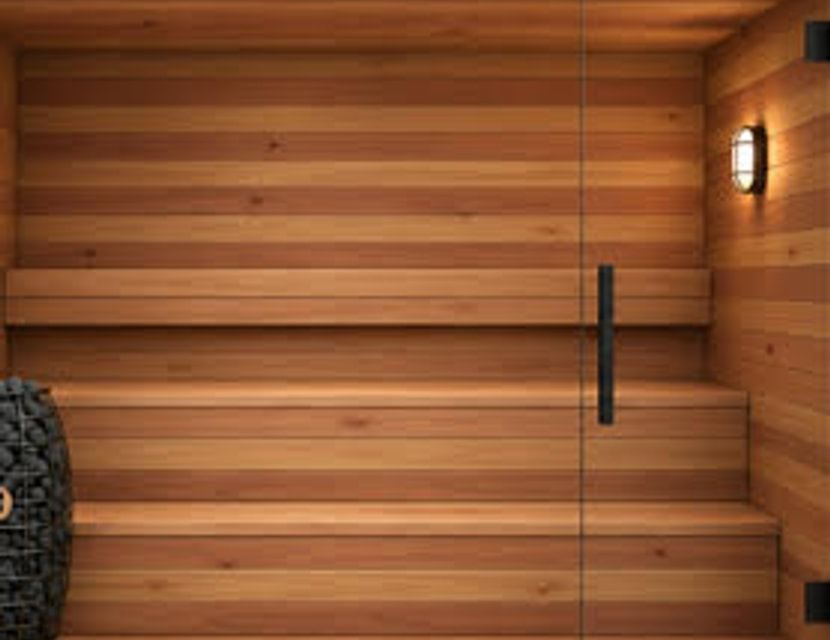
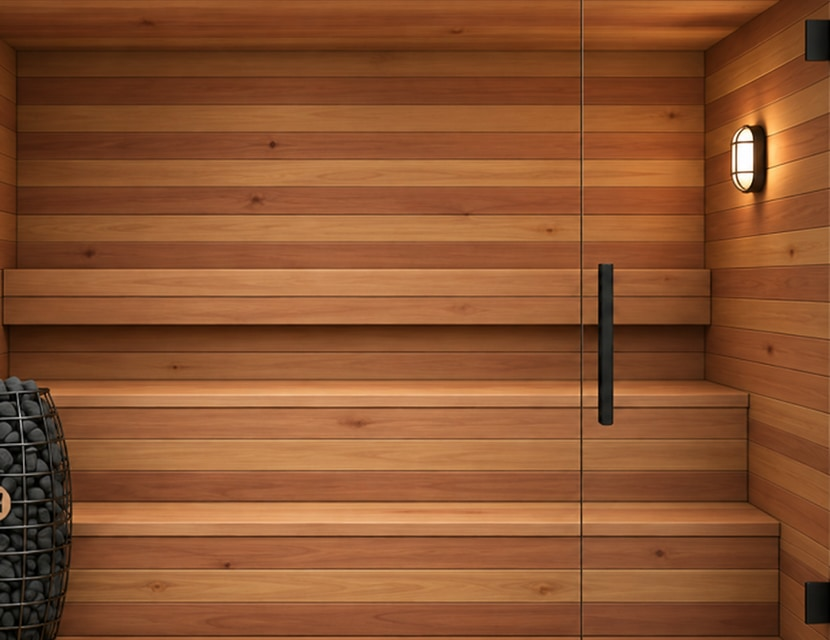
Replace low-res placeholder photos with high-res deck images
Images sourced from FRAM Developer Deck (1024–1360px originals):
- fram-01-hero.jpg: cedar interior landscape from deck image4 (was 278px thumbnail)
- fram-01-hero-card.jpg: cedar + marine sconce portrait from deck image2
- fram-02-hero.jpg: aspen/LED interior landscape from deck image5
- fram-02-hero-card.jpg: aspen vertical + LED portrait from deck image3
- home-design-illustration.jpg: architectural floor plan from deck image6 (72KB vs 1.3MB PNG)

diff --git a/src/app/page.tsx b/src/app/page.tsx
@@ -33,7 +33,7 @@ export default function Home() {
         <div className="border-t rule-soft">
           {/* eslint-disable-next-line @next/next/no-img-element */}
           <img
-            src="/images/home-design-illustration.png"
+            src="/images/home-design-illustration.jpg"
             alt="FRAM — architectural plan"
             className="w-full object-contain bg-[color:var(--color-ivory-soft)]"
             style={{ maxHeight: "520px" }}
